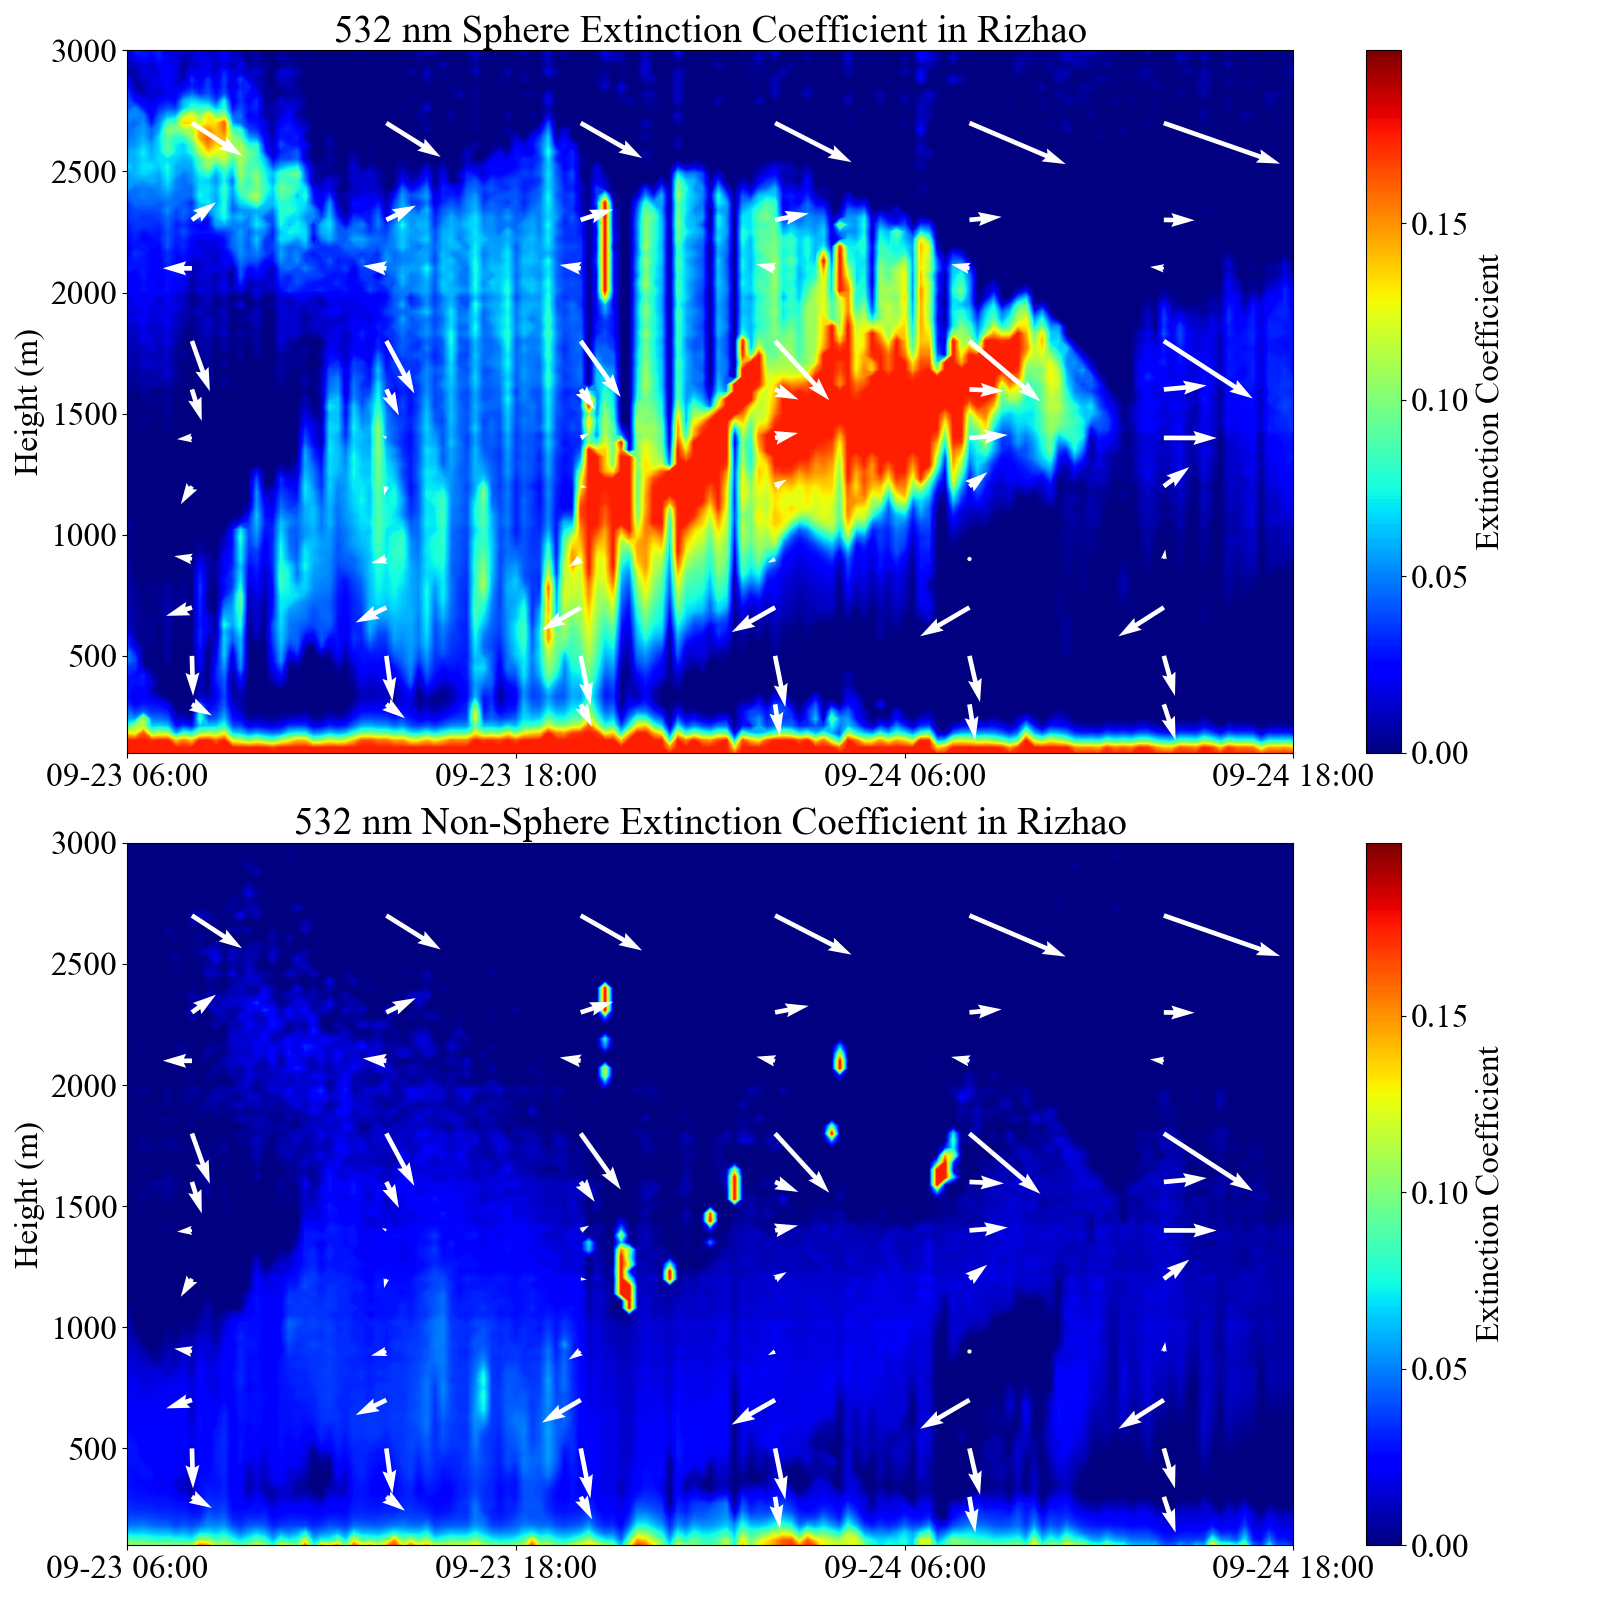
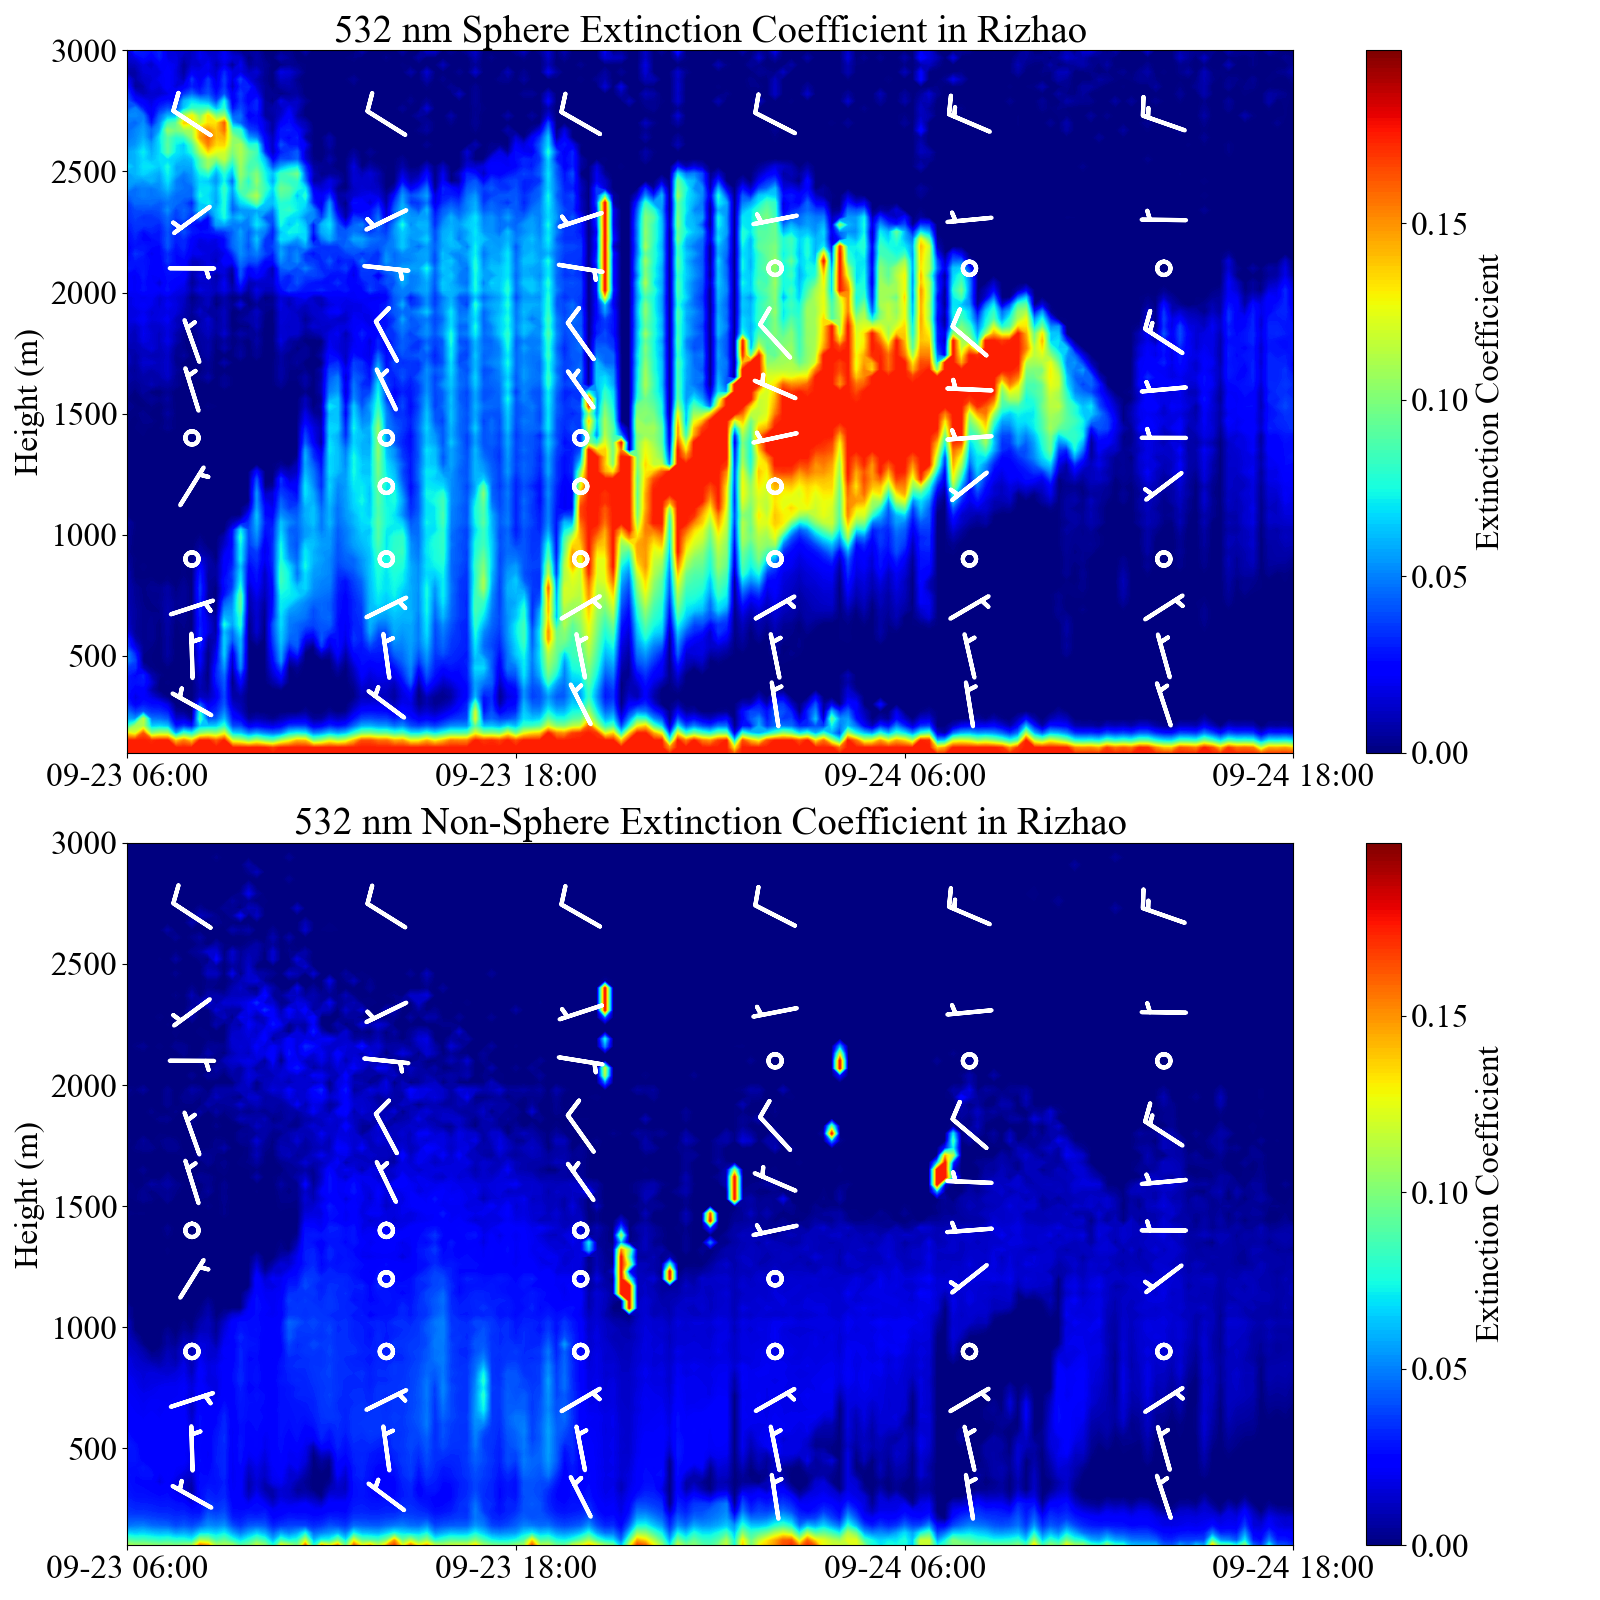
add files

diff --git a/episodes/Lidar-plot-2018-09-06.py b/episodes/Lidar-plot-2018-09-06.py
@@ -165,8 +165,8 @@ minval,maxval=0, 0.2
 #minval,maxval=0, 0.5
 #norm = matplotlib.colors.Normalize(vmin=0, vmax=500, clip=False)
 cs = plt.contourf(X,Y,Zdata, np.arange(minval, maxval, 0.001),cmap=plt.cm.get_cmap('jet'))#norm=norm, offset=-2, shrink=.92
-plt.quiver(X4, Y4, U, V,color='white', width=0.004,scale=150)     
-#plt.barbs(X4, Y4, U, V,barbcolor='white', flagcolor='r',linewidth=3, length=8, pivot='middle')      
+#plt.quiver(X4, Y4, U, V,color='white', width=0.004,scale=150)     
+plt.barbs(X4, Y4, U, V,barbcolor='white', flagcolor='r',linewidth=3, length=8, pivot='middle')      
 dateS=datetime(2018, 9, 6, 0, 00)
 dateE=datetime(2018, 9, 9, 0, 00)
 plt.xlim(dateS, dateE)                                                                                                  
@@ -251,8 +251,8 @@ minval,maxval=0, 0.2
 #norm = matplotlib.colors.Normalize(vmin=0, vmax=200, clip=False)
 
 cs = plt.contourf(X,Y,Zdata,np.arange(minval,maxval, 0.001),  cmap=plt.cm.get_cmap('jet'))#norm=norm,shrink=.92,offset=-2,
-plt.quiver(X4, Y4, U, V,color='white', width=0.004,scale=150)                                                                                                          
-#plt.barbs(X4, Y4, U, V,barbcolor='white', flagcolor='r',linewidth=3, length=8, pivot='middle')      
+#plt.quiver(X4, Y4, U, V,color='white', width=0.004,scale=150)                                                                                                          
+plt.barbs(X4, Y4, U, V,barbcolor='white', flagcolor='r',linewidth=3, length=8, pivot='middle')      
 plt.xlim(dateS, dateE)
 plt.gca()
 plt.gca().xaxis.set_major_formatter(mdates.DateFormatter('%m-%d %H:%M'))  

diff --git a/episodes/Lidar-plot-2018-09-02.py b/episodes/Lidar-plot-2018-09-02.py
@@ -165,8 +165,8 @@ X,Y = np.meshgrid(Xdata,Ydata)
 minval,maxval=0, 0.5
 #norm = matplotlib.colors.Normalize(vmin=0, vmax=500, clip=False)
 cs = plt.contourf(X,Y,Zdata, np.arange(minval, maxval, 0.001),cmap=plt.cm.get_cmap('jet'))#norm=norm, offset=-2, shrink=.92
-plt.quiver(X4, Y4, U, V,color='white', width=0.004,scale=150)    
-#plt.barbs(X4, Y4, U, V,barbcolor='white', flagcolor='r',linewidth=3, length=8, pivot='middle')      
+#plt.quiver(X4, Y4, U, V,color='white', width=0.004,scale=150)    
+plt.barbs(X4, Y4, U, V,barbcolor='white', flagcolor='r',linewidth=3, length=8, pivot='middle')      
 dateS=datetime(2018, 9, 2, 9, 00)
 dateE=datetime(2018, 9, 2, 18, 00)
 plt.xlim(dateS, dateE)                                                                                                  
@@ -251,8 +251,8 @@ minval,maxval=0, 0.5
 #norm = matplotlib.colors.Normalize(vmin=0, vmax=200, clip=False)
 
 cs = plt.contourf(X,Y,Zdata,np.arange(minval,maxval, 0.001),  cmap=plt.cm.get_cmap('jet'))#norm=norm,shrink=.92,offset=-2,
-plt.quiver(X4, Y4, U, V,color='white', width=0.004,scale=150)                                                                                                          
-#plt.barbs(X4, Y4, U, V,barbcolor='white', flagcolor='r',linewidth=3, length=8, pivot='middle')      
+#plt.quiver(X4, Y4, U, V,color='white', width=0.004,scale=150)                                                                                                          
+plt.barbs(X4, Y4, U, V,barbcolor='white', flagcolor='r',linewidth=3, length=8, pivot='middle')      
 dateS=datetime(2018, 9, 2, 9, 00)
 dateE=datetime(2018, 9, 2, 18, 00)
 plt.xlim(dateS, dateE)

diff --git a/episodes/Lidar-plot-2018-09-23.py b/episodes/Lidar-plot-2018-09-23.py
@@ -165,8 +165,8 @@ minval,maxval=0, 0.2
 #minval,maxval=0, 0.5
 #norm = matplotlib.colors.Normalize(vmin=0, vmax=500, clip=False)
 cs = plt.contourf(X,Y,Zdata, np.arange(minval, maxval, 0.001),cmap=plt.cm.get_cmap('jet'))#norm=norm, offset=-2, shrink=.92
-plt.quiver(X4, Y4, U, V,color='white', width=0.004,scale=150)   
-#plt.barbs(X4, Y4, U, V,barbcolor='white', flagcolor='r',linewidth=3, length=8, pivot='middle')      
+#plt.quiver(X4, Y4, U, V,color='white', width=0.004,scale=150)   
+plt.barbs(X4, Y4, U, V,barbcolor='white', flagcolor='r',linewidth=3, length=8, pivot='middle')      
 dateS=datetime(2018, 9, 23, 6, 00)
 dateE=datetime(2018, 9, 24, 18, 00)
 plt.xlim(dateS, dateE)                                                                                                  
@@ -251,8 +251,8 @@ minval,maxval=0, 0.2
 #norm = matplotlib.colors.Normalize(vmin=0, vmax=200, clip=False)
 
 cs = plt.contourf(X,Y,Zdata,np.arange(minval,maxval, 0.001),  cmap=plt.cm.get_cmap('jet'))#norm=norm,shrink=.92,offset=-2,
-plt.quiver(X4, Y4, U, V,color='white', width=0.004,scale=150)                                                                                                          
-#plt.barbs(X4, Y4, U, V,barbcolor='white', flagcolor='r',linewidth=3, length=8, pivot='middle')      
+#plt.quiver(X4, Y4, U, V,color='white', width=0.004,scale=150)                                                                                                          
+plt.barbs(X4, Y4, U, V,barbcolor='white', flagcolor='r',linewidth=3, length=8, pivot='middle')      
 dateS=datetime(2018, 9, 23, 6, 00)
 dateE=datetime(2018, 9, 24, 18, 00)
 plt.xlim(dateS, dateE)
